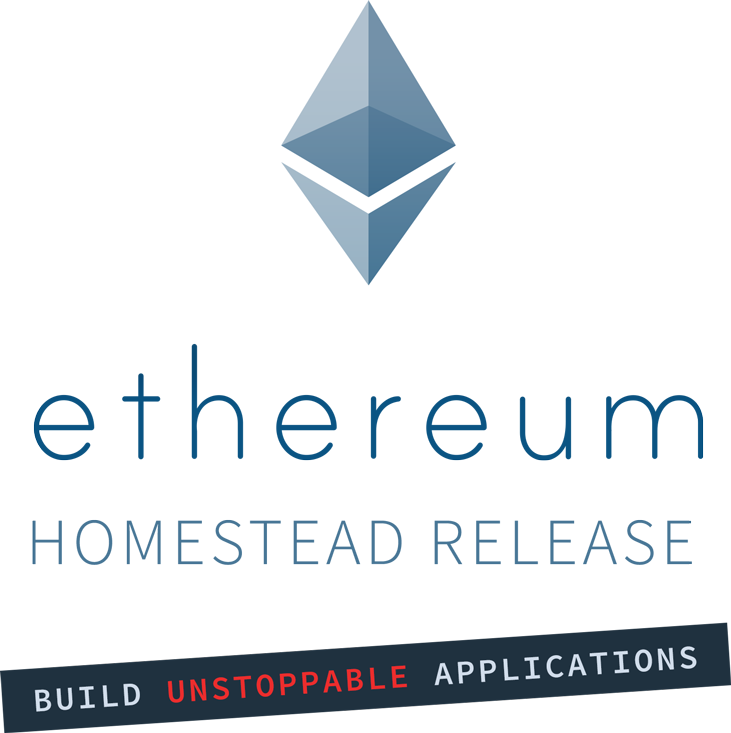
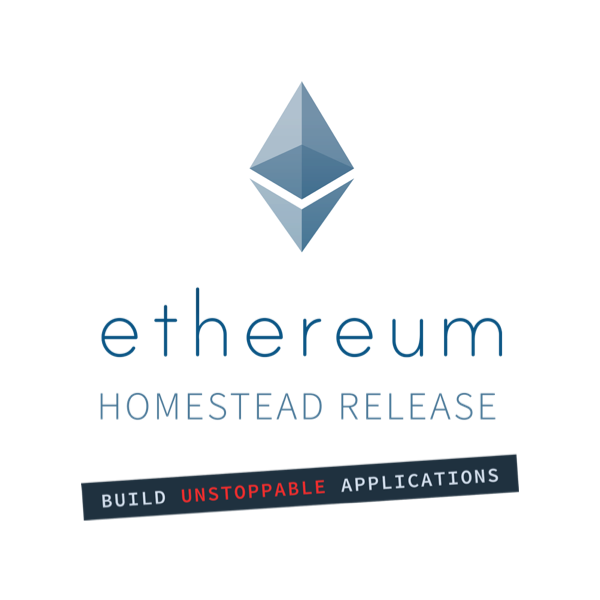
added download tools page

Changed region(s): [[0.0, 0.45, 1.0, 1.0], [0.39, 0.0, 0.63, 0.42]]

diff --git a/public/css/style.css b/public/css/style.css
@@ -19,12 +19,12 @@ h1, h2, h3, h4, h5, h6 {
 }
 
 h1 {
-	font-size: 36px;
+	font-size: 50px;
 	font-weight: 900;
 }
 
 h2 {
-	font-size: 30px;
+	font-size: 40px;
 	color: #A9C5E6;
 	padding-bottom: 30px;
 }
@@ -119,9 +119,9 @@ div.scrollme.intro {
 }
 
 div.scrollme.row.introduction {
-	height: 70vh;
+	height: 60vw;
 	min-height: 440px;
-	max-height: 880px;
+	max-height: 800px;
 	background: url('../images/homestead-background.jpg') center center no-repeat;
 	background-size: cover;	
 	padding-top: 50px;
@@ -129,15 +129,14 @@ div.scrollme.row.introduction {
 
 .introduction h1 {
 	position: absolute;
-	top: 50%;
+	top: 0px;
 	left: 50%;
-	width: 243px;
+	width: 250px;
 	height: 0;
-	padding-top: 244px;
-	margin-top: -200px;
-	margin-left: -121px;
+	padding-top: 250px;
+	margin-left: -125px;
 	background: url('../images/homestead-title.png') top center no-repeat;
-	background-size: 243px 244px;
+	background-size: contain;
 	overflow: hidden;
 }
 
@@ -215,6 +214,9 @@ header:after {
 	z-index: 50;
 }
 
+.main-content .container {
+	margin-top: -100px;
+}
 
 .main-tutorial {
 	overflow: hidden;
@@ -410,6 +412,7 @@ header:after {
 	color: #FFF;
 }
 
+.whatis figure,
 .main-tutorial figure {
 	float: right;
 	margin: 60px 0 30px 30px;	
@@ -417,6 +420,7 @@ header:after {
 	width: 100%;
 }
 
+.whatis figure div,
 .main-tutorial figure div {
 	position: absolute;
 	top: 0;
@@ -500,22 +504,11 @@ input.button:hover {
 	padding: 0 5px;
 	font-family: 'Source Sans Pro', 'Helvetica Neue', 'Helvetica', arial,  sans-serif;
 	text-transform: uppercase;
-	color: #ffe9ae;
+	color: #E1EFFF;
 }	
 
 .breadcrumb a.index {
 	font-family: 'Source Sans Pro', Arial, sans-serif serif;
-}
-
-.warning .short-terms a {
-	color: #FFF;
-}
-
-.warning a.button {
-	background-color: #E1EFFF;
-	color: #F15625;
-	margin: 30px auto;
-	float: none;
 }
 
 .terms,
@@ -731,6 +724,43 @@ input.button:hover {
 }
 
 
+.ethereum-wallet.button {
+	float: none;
+	clear: none;
+}
+
+
+.aleth-miner h2 {
+	padding-top: 100px;
+	color: #303030;
+}
+
+.aleth-miner .button {
+	float: left;
+    margin-top: 30px;
+}
+
+.power-tools { 
+	background: #726866;
+}
+
+
+.power-tools p, 
+.power-tools h2 , 
+.power-tools h3 { 
+	color: #FFF;
+}
+
+.power-tools h2 {
+	padding-top: 90px;
+} 
+
+.power-tools .button {
+	clear: none;
+	float: left;
+	margin-top: 50px;
+}
+
 
 /* FIGURES */
 
@@ -755,6 +785,73 @@ figure.geth-console {
 	background-repeat: no-repeat;
 	margin-bottom: 50px;
 }
+
+
+figure.wallet {
+	max-width: 736px;
+	height: 627px;
+	margin-right: -250px;
+	margin-top: -100px;
+}
+
+figure.wallet .wallet-start {
+	background-image: url("../images/wallet-start.png");
+}
+figure.wallet .wallet-create {
+	background-image: url("../images/wallet-create.png");
+}
+figure.wallet .wallet-confirm {
+	background-image: url("../images/wallet-confirm.png");
+}
+
+
+figure.aleth-one {
+	max-width: 481px;
+	height: 516px;
+	float: left;
+	margin-left: -100px;
+}
+
+figure.aleth-one .aleth-one-1 {
+	background-image: url("../images/aleth-one-1.png");
+}
+figure.aleth-one .aleth-one-2 {
+	background-image: url("../images/aleth-one-2.png");
+}
+figure.aleth-one .aleth-one-3 {
+	background-image: url("../images/aleth-one-3.png");
+}
+figure.aleth-one .aleth-one-4 {
+	background-image: url("../images/aleth-one-4.png");
+}
+figure.aleth-one .aleth-one-5 {
+	background-image: url("../images/aleth-one-5.png");
+}
+
+
+
+figure.turbo {
+	max-width: 544px;
+	height: 434px;
+	margin-right: -100px;
+}
+
+figure.turbo .turbo-01 {
+	background-image: url("../images/turbo-01.png");
+}
+figure.turbo .turbo-02 {
+	background-image: url("../images/turbo-02.png");
+}
+figure.turbo .turbo-03 {
+	background-image: url("../images/turbo-03.png");
+}
+figure.turbo .turbo-04 {
+	background-image: url("../images/turbo-04.png");
+}	
+figure.turbo .turbo-05 {
+	background-image: url("../images/turbo-05.png");
+}
+
 
 
 figure.geth {
@@ -1225,6 +1322,12 @@ footer {
 	}	
 }
 
+@media only screen and (-webkit-min-device-pixel-ratio: 2 ) and (min-width: 800px ) {
+	.introduction h1 {
+		background-image: url('../images/homestead-title@3x.png');
+	}
+}
+
 @media only screen and (-webkit-min-device-pixel-ratio: 2 ) and (min-width: 654px ) {
 	header {
 		background-image: url('../images/homestead-background@2x.jpg');
@@ -1250,6 +1353,7 @@ footer {
 	figure {
 		height: 300px;
 		margin: 0 auto;
+
 	}
 
 	.main-tutorial a.button ,
@@ -1279,6 +1383,7 @@ footer {
 	.recipe,
 	.main-tutorial a.button ,
 	.ethereum-network,
+	.whatis figure ,
 	.main-tutorial figure {
 		float: none;
 		margin: 30px auto;
@@ -1295,31 +1400,40 @@ footer {
 	}
 }
 
-@media only screen and (min-height:900px) {
+@media only screen and (min-width:900px) {
 	.introduction h1 {
 		background-image: url('../images/homestead-title@2x.png');
 	}
 }
 
 
+@media only screen and (min-width: 800px){
+	.introduction h1 {
+		width: 350px;
+		padding-top: 350px;
+		top: -10px;
+		margin-left: -175px;
+		background-image: url('../images/homestead-title@3x.png');
+	}
+}
+
+
 @media only screen and (min-width: 1000px){
 	.introduction h1 {
-		width: 300px;
-		padding-top: 348px;
-		margin-top: -230px;
-		margin-left: -150px;
-/*		background-size: 365px 366px;
-*/		background-image: url('../images/homestead-title@3x.png');
+		width: 400px;
+		padding-top: 400px;
+		top: -12px;
+		margin-left: -200px;
+		background-image: url('../images/homestead-title@3x.png');
 	}
 }
 
 @media only screen and (min-width: 1500px){
 	.introduction h1 {
-		width: 360px;
-		padding-top: 417px;
-		margin-top: -270px;
-		margin-left: -180px;
-		background-size: 360px 417px;
+		width: 450px;
+		padding-top: 450px;
+		top: -15px;
+		margin-left: -225px;
 	}
 }
 
@@ -1338,6 +1452,50 @@ footer {
 
 	figure.ethereum-network {
 		background-image: url("../images/ethereum-network-outline@2x.png");
+	}
+
+
+	figure.wallet .wallet-start {
+		background-image: url("../images/wallet-start@2x.png");
+	}
+	figure.wallet .wallet-create {
+		background-image: url("../images/wallet-create@2x.png");
+	}
+	figure.wallet .wallet-confirm {
+		background-image: url("../images/wallet-confirm@2x.png");
+	}
+
+	figure.aleth-one .aleth-one-1 {
+		background-image: url("../images/aleth-one-1@2x.png");
+	}
+	figure.aleth-one .aleth-one-2 {
+		background-image: url("../images/aleth-one-2@2x.png");
+	}
+	figure.aleth-one .aleth-one-3 {
+		background-image: url("../images/aleth-one-3@2x.png");
+	}
+	figure.aleth-one .aleth-one-4 {
+		background-image: url("../images/aleth-one-4@2x.png");
+	}	
+	figure.aleth-one .aleth-one-5 {
+		background-image: url("../images/aleth-one-5@2x.png");
+	}
+
+
+	figure.turbo .turbo-01 {
+		background-image: url("../images/turbo-01@2x.png");
+	}
+	figure.turbo .turbo-02 {
+		background-image: url("../images/turbo-02@2x.png");
+	}
+	figure.turbo .turbo-03 {
+		background-image: url("../images/turbo-03@2x.png");
+	}
+	figure.turbo .turbo-04 {
+		background-image: url("../images/turbo-04@2x.png");
+	}	
+	figure.turbo .turbo-05 {
+		background-image: url("../images/turbo-05@2x.png");
 	}
 
 
